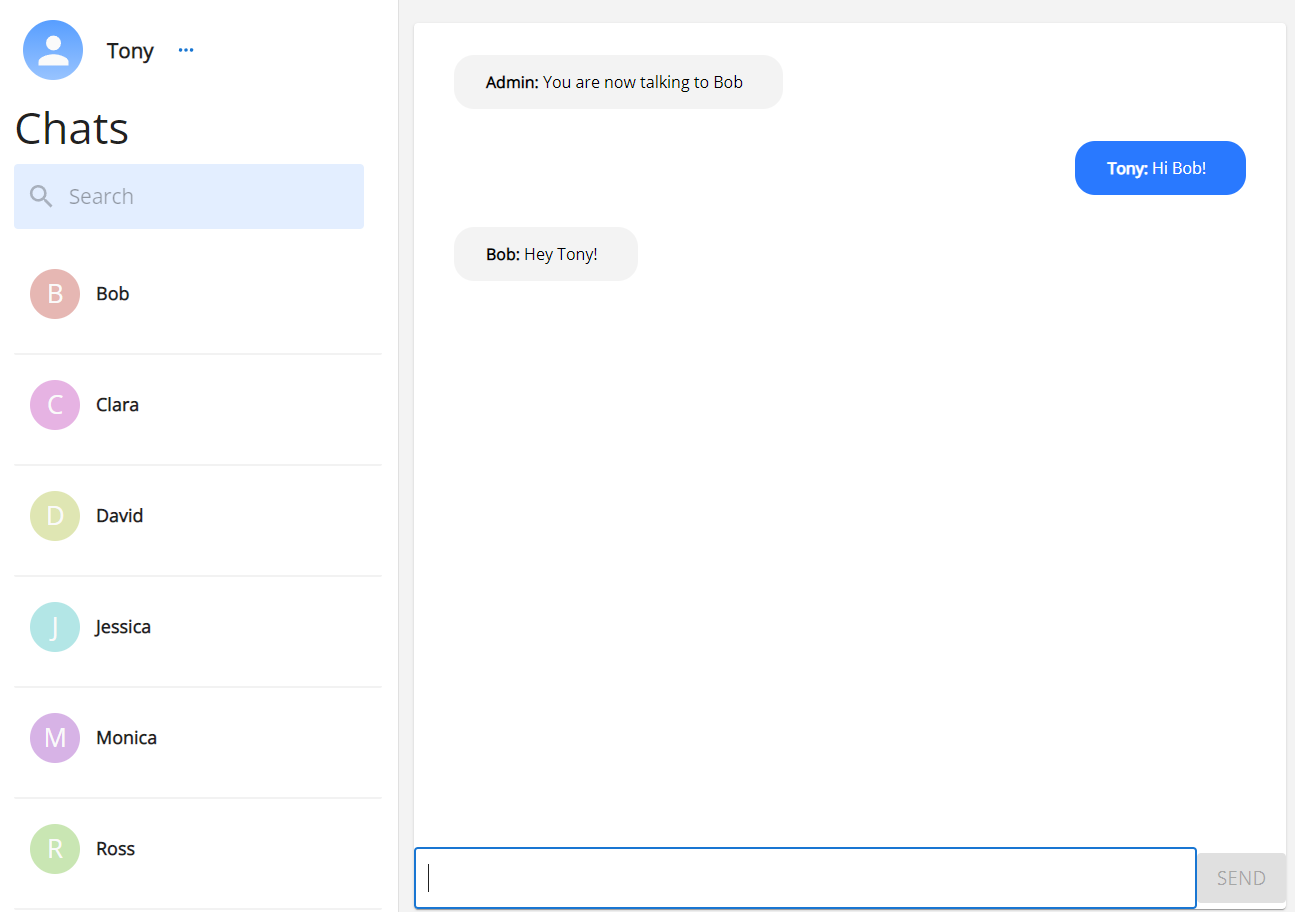
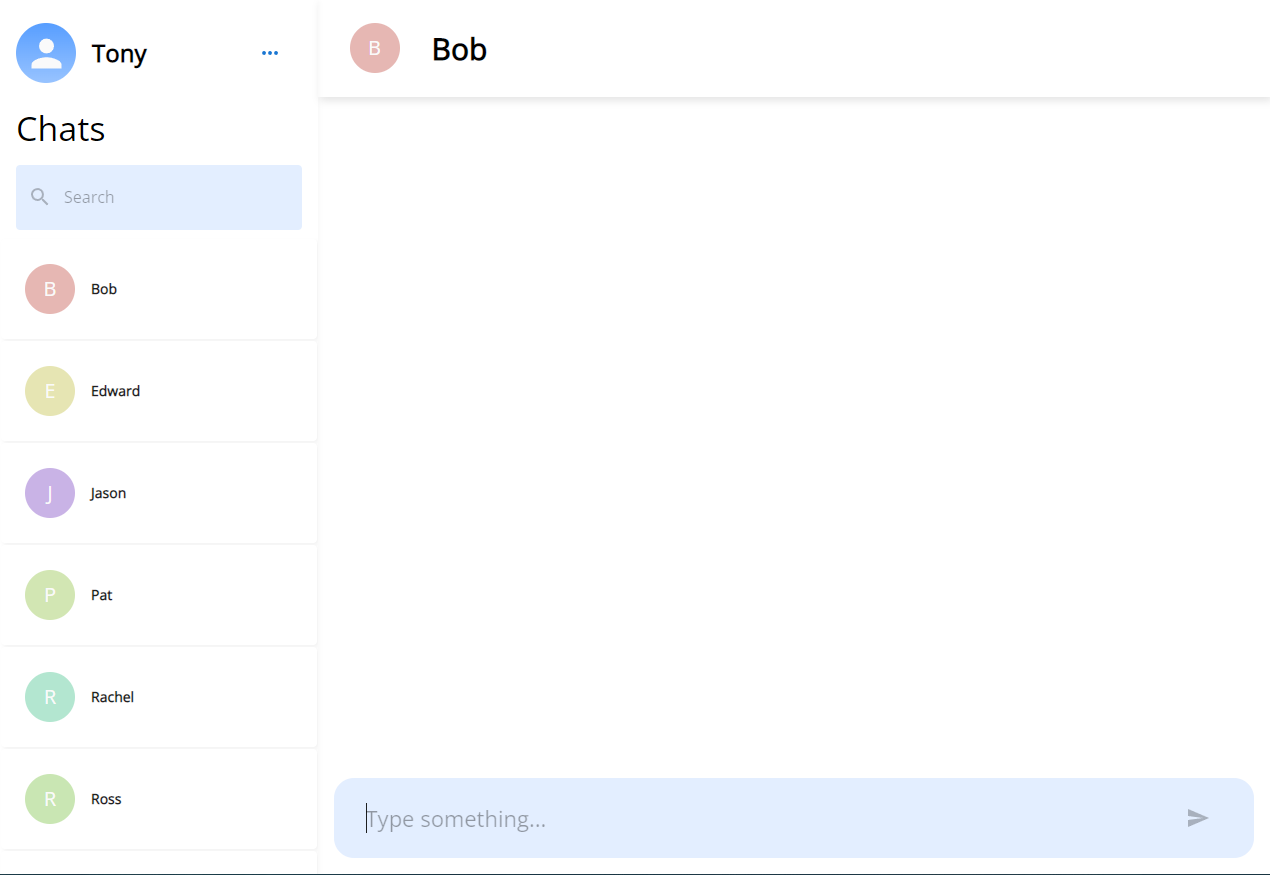
updated photo

diff --git a/README.md b/README.md
@@ -26,6 +26,10 @@ After logging in, users can click on any existing users on the left hand side to
 
 ![Chat Page](https://github.com/Tony-Kim09/messenger-app/blob/dev/imgs/MessengerChatPage.PNG)
 
+This application is mobile responsive to ensure users can fully experince the app regardless of the device they are using. 
+
+![Mobile Responsive](https://github.com/Tony-Kim09/messenger-app/blob/dev/imgs/MobileResponsive.PNG)
+
 I have thoroughly tested the backend to ensure the APIs are properly functioning using Mocha/Chai.
 
 ![BackEnd Test](https://github.com/Tony-Kim09/messenger-app/blob/dev/imgs/backendUnitTest.PNG)
